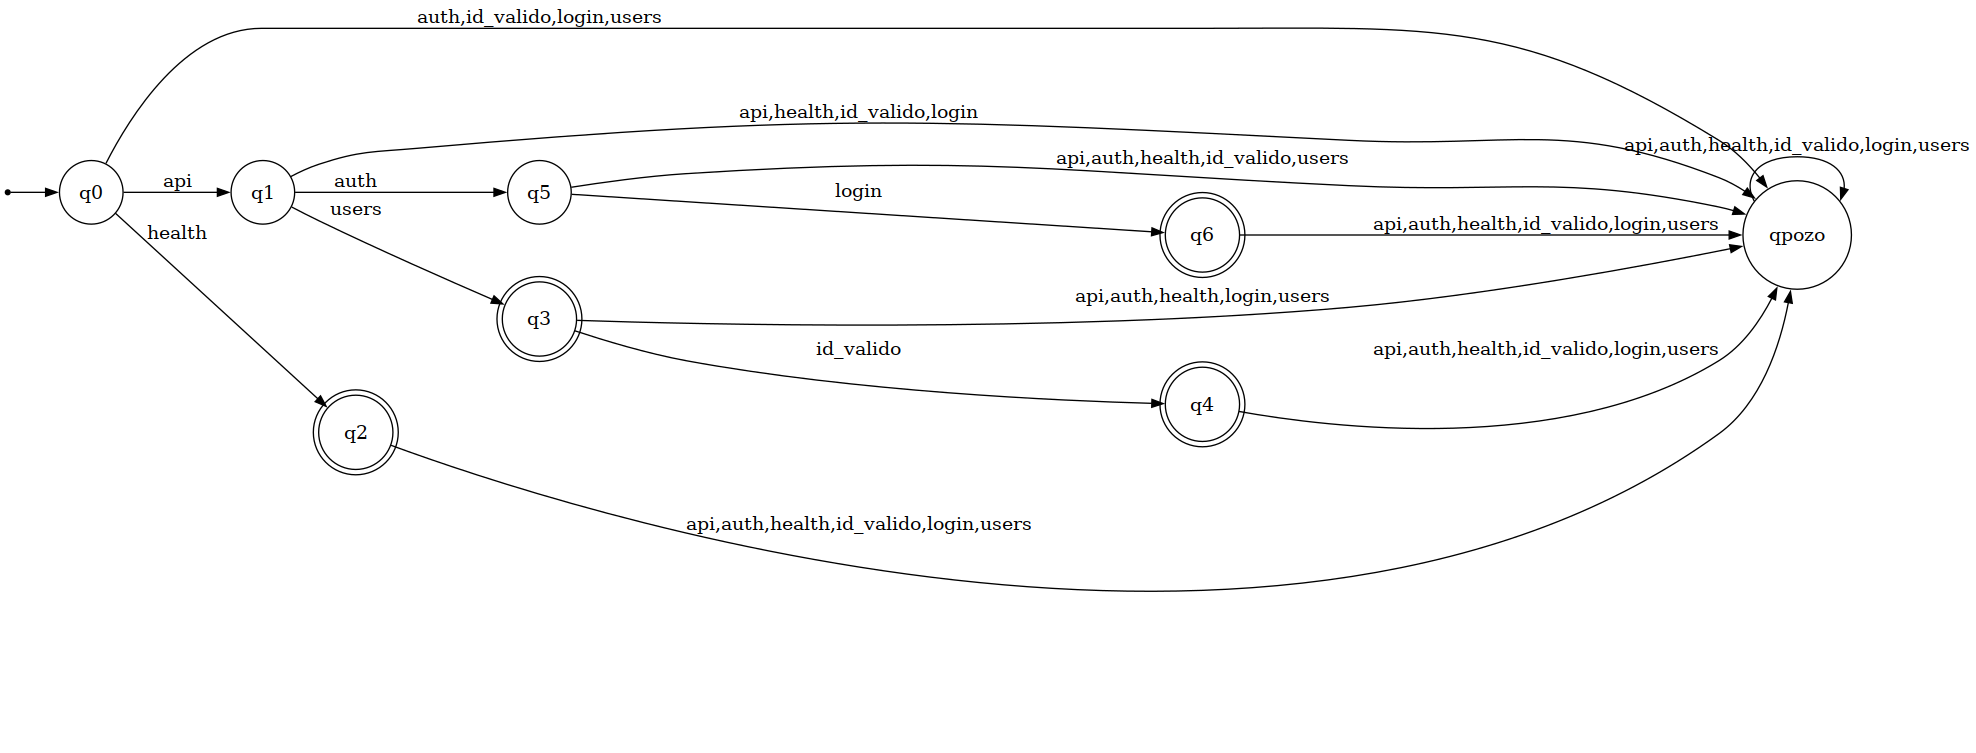
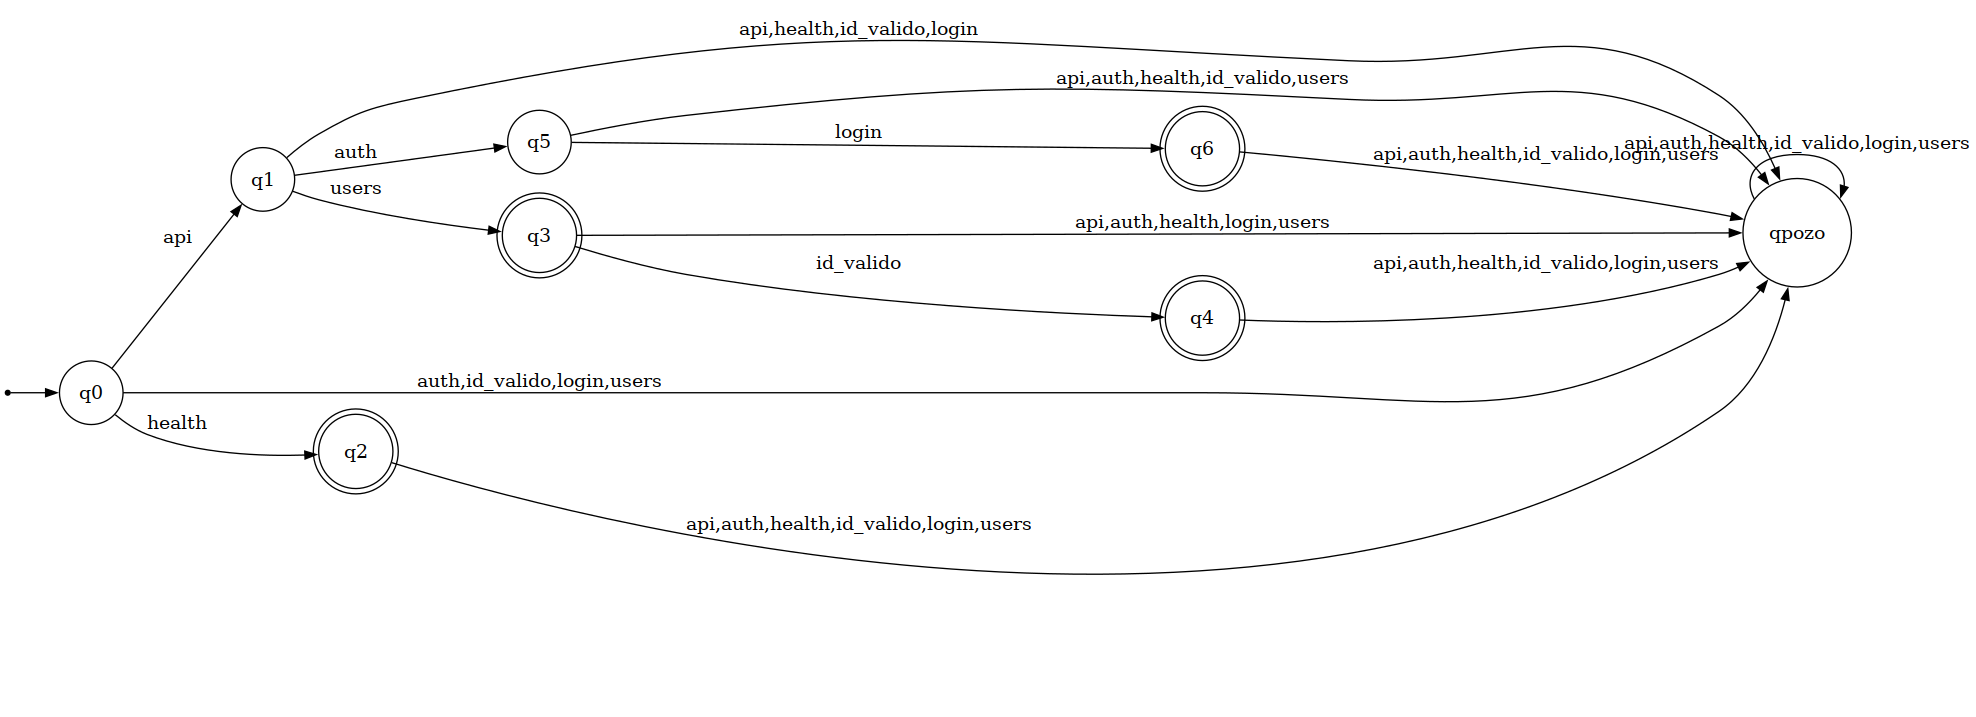
Diagramas y mdoficacion al README

diff --git a/README.md b/README.md
@@ -24,6 +24,32 @@ El comportamiento del enrutador se define formalmente mediante la siguiente quí
 - **Estado Inicial (q0):** `q0`
 - **Estados de Aceptación (F):** `{q2, q3, q4, q6}`
 
+## Diagramas
+
+### Diagrama generado por `automata-lib`
+
+Este diagrama es la representación exacta del AFD tal como está definido en el código. Fue generado automáticamente por la librería `automata-lib` mediante el método `show_diagram()`. Incluye todas las transiciones explícitas, incluidas las que dirigen hacia el estado de pozo (`qpozo`), lo que garantiza la completitud del autómata.
+
+![Diagrama generado por automata-lib](enrutador_diagrama.png)
+
+---
+
+### Diagrama conceptual (estilo JFLAP)
+
+Este diagrama fue diseñado manualmente para representar el modelo de forma visual e intuitiva, siguiendo la estética de JFLAP. Cada transición utiliza **tokens completos** como símbolos del alfabeto (por ejemplo, `health`, `api`, `users`), tal como los procesa nuestro Lexer. 
+
+> **Nota:** Este diagrama **no es ejecutable en JFLAP**, ya que JFLAP opera carácter por carácter sobre el alfabeto de entrada, y nuestro autómata trabaja con tokens multi-carácter que son el resultado del preprocesamiento léxico.
+
+![Diagrama conceptual estilo JFLAP](JFLAP-Diagrama.png)
+
+---
+
+### Diagrama adaptado para JFLAP (ruta `/health`)
+
+Para demostrar cómo se vería una versión funcional en JFLAP, se adaptó la ruta `/health` para que procese la entrada **carácter por carácter** (es decir, transiciones por `h`, `e`, `a`, `l`, `t`, `h`). Solo se modeló esta ruta como ejemplo representativo, ya que adaptar todas las rutas a este formato haría el diagrama excesivamente extenso y difícil de leer.
+
+![Diagrama adaptado para JFLAP - ruta /health](JFLAP_Diag_Aceptable.png)
+
 ## Requisitos
 
 Para ejecutar este proyecto, asegúrese de contar con los siguientes elementos instalados en su sistema:
